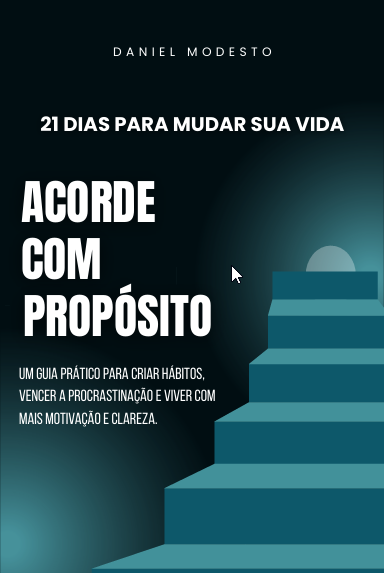
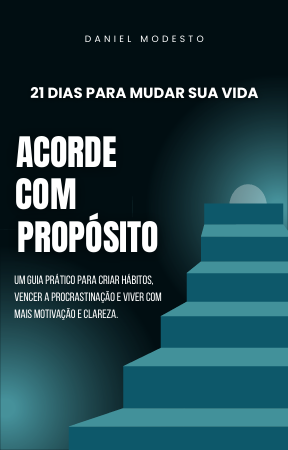
Teste

diff --git a/index.html b/index.html
@@ -1,29 +1,43 @@
-<html lang="pt-br">
+<!DOCTYPE html>
+<html lang="pt-BR">
 <head>
-  <meta charset="UTF-8">
-  <meta name="viewport" content="width=device-width, initial-scale=1.0">
-  <title>Acorde com Propósito - Ebook</title>
-  <link href="https://fonts.googleapis.com/css2?family=Montserrat:wght@400;700&family=Playfair+Display:wght@700&display=swap" rel="stylesheet">
-  <link rel="stylesheet" href="style.css">
+  <meta charset="UTF-8" />
+  <meta name="viewport" content="width=device-width, initial-scale=1" />
+  <title>Acorde com Propósito</title>
+
+  <!-- Fonts -->
+  <link href="https://fonts.googleapis.com/css2?family=Montserrat&family=Playfair+Display&display=swap" rel="stylesheet" />
+
+  <!-- CSS -->
+  <link rel="stylesheet" href="style.css" />
 </head>
 <body>
-  <div class="background-overlay"></div>
-  <header>
-  
-    <h1 class="title">Acorde com Propósito</h1>
-    <h2 class="subtitle">21 Dias para Mudar sua Vida</h2>
-  </header>
+  <!-- Fundo animado -->
+  <div id="fundo-animado"></div>
 
-  <img src="Capa e-book.png" alt="Capa do eBook Acorde com Propósito" class="ebook-cover">
+  <!-- Conteúdo principal -->
+  <div class="content-container">
+    <div class="text-content">
+      <header>
+        <h1 class="title">Acorde com Propósito</h1>
+        <h2 class="subtitle">21 Dias para Mudar sua Vida</h2>
+      </header>
+      <p class="description">
+        Um guia prático para criar hábitos, vencer a procrastinação e viver com mais motivação e clareza. Descubra como transformar seus dias em apenas 21 dias com ações simples e eficazes.
+      </p>
+      <a href="https://pay.kiwify.com.br/9hPkPyX" target="_blank" class="buy-button">Comprar Agora</a>
+    </div>
 
-  <p class="description">
-    Um guia prático para criar hábitos, vencer a procrastinação e viver com mais motivação e clareza. Descubra como transformar seus dias em apenas 21 dias com ações simples e eficazes.
-  </p>
-
-  <a href="https://pay.kiwify.com.br/9hPkPyX" target="_blank" class="buy-button">Comprar Agora</a>
+    <img src="Capa e-book.png" alt="Capa do eBook" class="ebook-cover" />
+  </div>
 
   <footer>
-    <p>Copyright &copy; 2025 Daniel Modesto. Todos os direitos reservados.</p>
+    <p>&copy; 2025 Daniel Modesto. Todos os direitos reservados.</p>
   </footer>
+
+  <!-- Lib tParticles -->
+  <script src="https://cdn.jsdelivr.net/npm/tsparticles@2.12.1/tsparticles.bundle.min.js"></script>
+  <!-- Script animado separado -->
+  <script src="index.js"></script>
 </body>
 </html>

diff --git a/style.css b/style.css
@@ -1,55 +1,39 @@
-* {
-  margin: 0;
-  padding: 0;
-  box-sizing: border-box;
-}
-
 body {
   font-family: 'Montserrat', sans-serif;
-  background: linear-gradient(to bottom right, #001f26, #0a0a0a);
   color: #fff;
+  margin: 0;
   min-height: 100vh;
-  display: flex;
-  flex-direction: column;
-  align-items: center;
-  justify-content: center;
   padding: 2rem;
   position: relative;
-  overflow: hidden;
+  overflow-x: hidden;
+  background: linear-gradient(to bottom right, #001f26, #0a0a0a);
 }
 
-.background-overlay::before {
-  content: "";
-  position: absolute;
-  top: -50%;
-  left: -50%;
-  width: 200%;
-  height: 200%;
-  background: radial-gradient(circle at center, rgba(0, 255, 255, 0.1) 0%, transparent 70%);
-  animation: pulse 10s infinite;
+#fundo-animado {
+  position: fixed;
+  top: 0;
+  left: 0;
+  width: 100vw;
+  height: 100vh;
   z-index: 0;
+  pointer-events: none;
 }
 
-@keyframes pulse {
-  0%, 100% {
-    transform: scale(1);
-  }
-  50% {
-    transform: scale(1.05);
-  }
-}
-
-header {
-  text-align: center;
-  margin-bottom: 2rem;
+.content-container {
+  display: flex;
+  flex-direction: column;
+  justify-content: center;
+  align-items: center;
+  gap: 3rem;
+  max-width: 1000px;
+  margin: 0 auto;
   position: relative;
   z-index: 1;
+  text-align: center;
 }
 
-.logo {
-  max-width: 180px;
-  margin: 0 auto 1rem;
-  display: block;
+.text-content {
+  max-width: 450px;
 }
 
 .title {
@@ -67,26 +51,14 @@ header {
   font-weight: 400;
   color: #a3f3ff;
   letter-spacing: 1.5px;
-  margin-bottom: 1rem;
-}
-
-.ebook-cover {
-  max-width: 320px;
-  border-radius: 10px;
-  box-shadow: 0 0 20px rgba(0, 255, 255, 0.2);
-  margin-bottom: 2rem;
-  position: relative;
-  z-index: 1;
+  margin-bottom: 1.5rem;
 }
 
 .description {
-  max-width: 600px;
-  text-align: center;
   font-size: 1.1rem;
   line-height: 1.6;
   margin-bottom: 2rem;
-  position: relative;
-  z-index: 1;
+  color: #e0f7fa;
 }
 
 .buy-button {
@@ -99,13 +71,19 @@ header {
   cursor: pointer;
   transition: background 0.3s, transform 0.3s;
   text-decoration: none;
-  position: relative;
-  z-index: 1;
+  display: inline-block;
 }
 
 .buy-button:hover {
   background-color: #0097a7;
   transform: scale(1.05);
+}
+
+.ebook-cover {
+  max-width: 320px;
+  width: 100%;
+  border-radius: 10px;
+  box-shadow: 0 0 20px rgba(0, 255, 255, 0.2);
 }
 
 footer {

diff --git a/index.js b/index.js
@@ -1,0 +1,48 @@
+document.addEventListener("DOMContentLoaded", function () {
+  tsParticles.load("fundo-animado", {
+    fullScreen: {
+      enable: false,
+      zIndex: 0
+    },
+    background: {
+      color: "transparent"
+    },
+    particles: {
+      number: {
+        value: 50,
+        density: {
+          enable: true,
+          area: 800
+        }
+      },
+      color: {
+        value: "#00e5ff"
+      },
+      shape: {
+        type: "circle"
+      },
+      opacity: {
+        value: 0.2,
+        random: true
+      },
+      size: {
+        value: 3,
+        random: true
+      },
+      move: {
+        enable: true,
+        speed: 1.5,
+        direction: "none",
+        outModes: "out"
+      },
+      links: {
+        enable: true,
+        distance: 130,
+        color: "#00e5ff",
+        opacity: 0.1,
+        width: 1
+      }
+    },
+    detectRetina: true
+  });
+});
